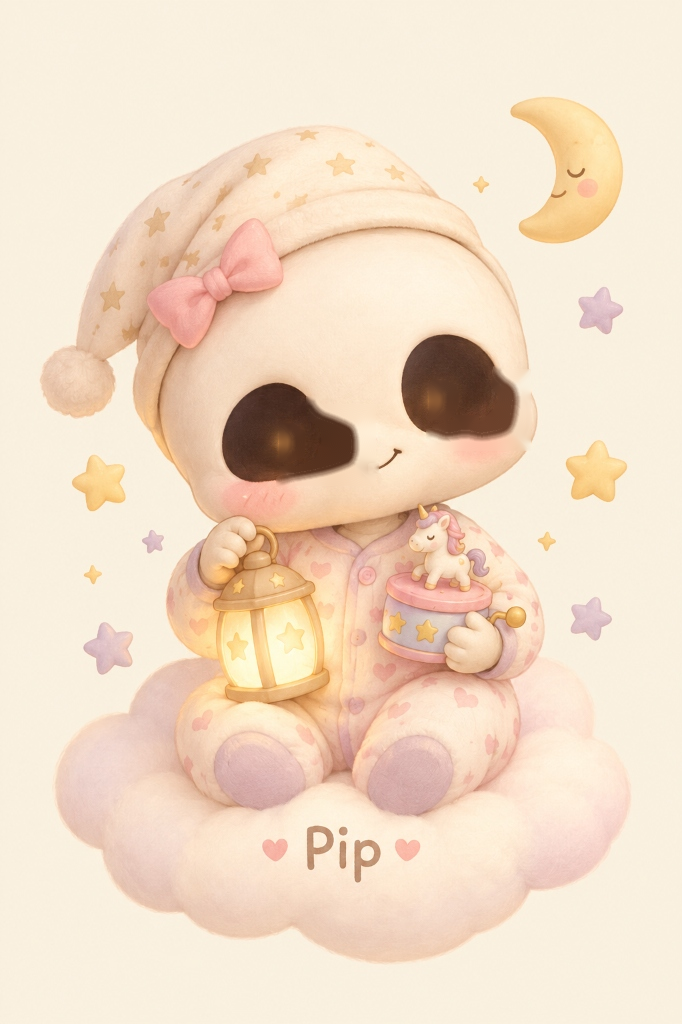
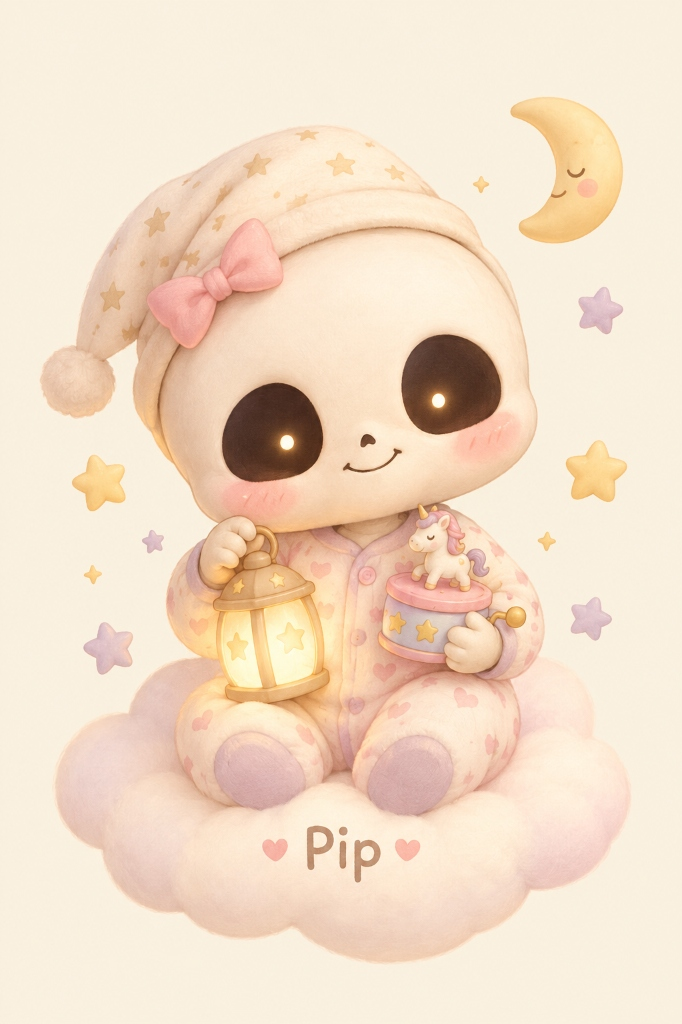
Fix Pip's portrait eyes and remove retro web badges from footer

Changed region(s): [[0.6158, 0.3438, 0.7698, 0.4375], [0.4003, 0.375, 0.5543, 0.4688]]

diff --git a/index.html b/index.html
@@ -979,25 +979,6 @@
         </div>
       </div>
 
-      <!-- Retro Web Badges -->
-      <div class="footer-retro-badges" aria-label="Vintage early-web badges">
-        <div class="retro-badge badge-netscape">
-          <span class="badge-icon">🌐</span>
-          <span class="badge-text">NETSCAPE 4.0<br/><strong>OPTIMIZED</strong></span>
-        </div>
-        <div class="retro-badge badge-resolution">
-          <span class="badge-icon">🖥</span>
-          <span class="badge-text">BEST AT<br/><strong>800 × 600</strong></span>
-        </div>
-        <div class="retro-badge badge-html">
-          <span class="badge-icon">✨</span>
-          <span class="badge-text">100% PURE<br/><strong>VANILLA WEB</strong></span>
-        </div>
-        <div class="retro-badge badge-hax">
-          <span class="badge-icon">🧸</span>
-          <span class="badge-text">COZY DREAMS<br/><strong>100% PEACEFUL</strong></span>
-        </div>
-      </div>
 
       <div class="footer-credits">
         <p>© 2026 Pip's Midnight Nursery • Dedicated to restful sleep, gentle dreams, and comforting nightlights</p>
